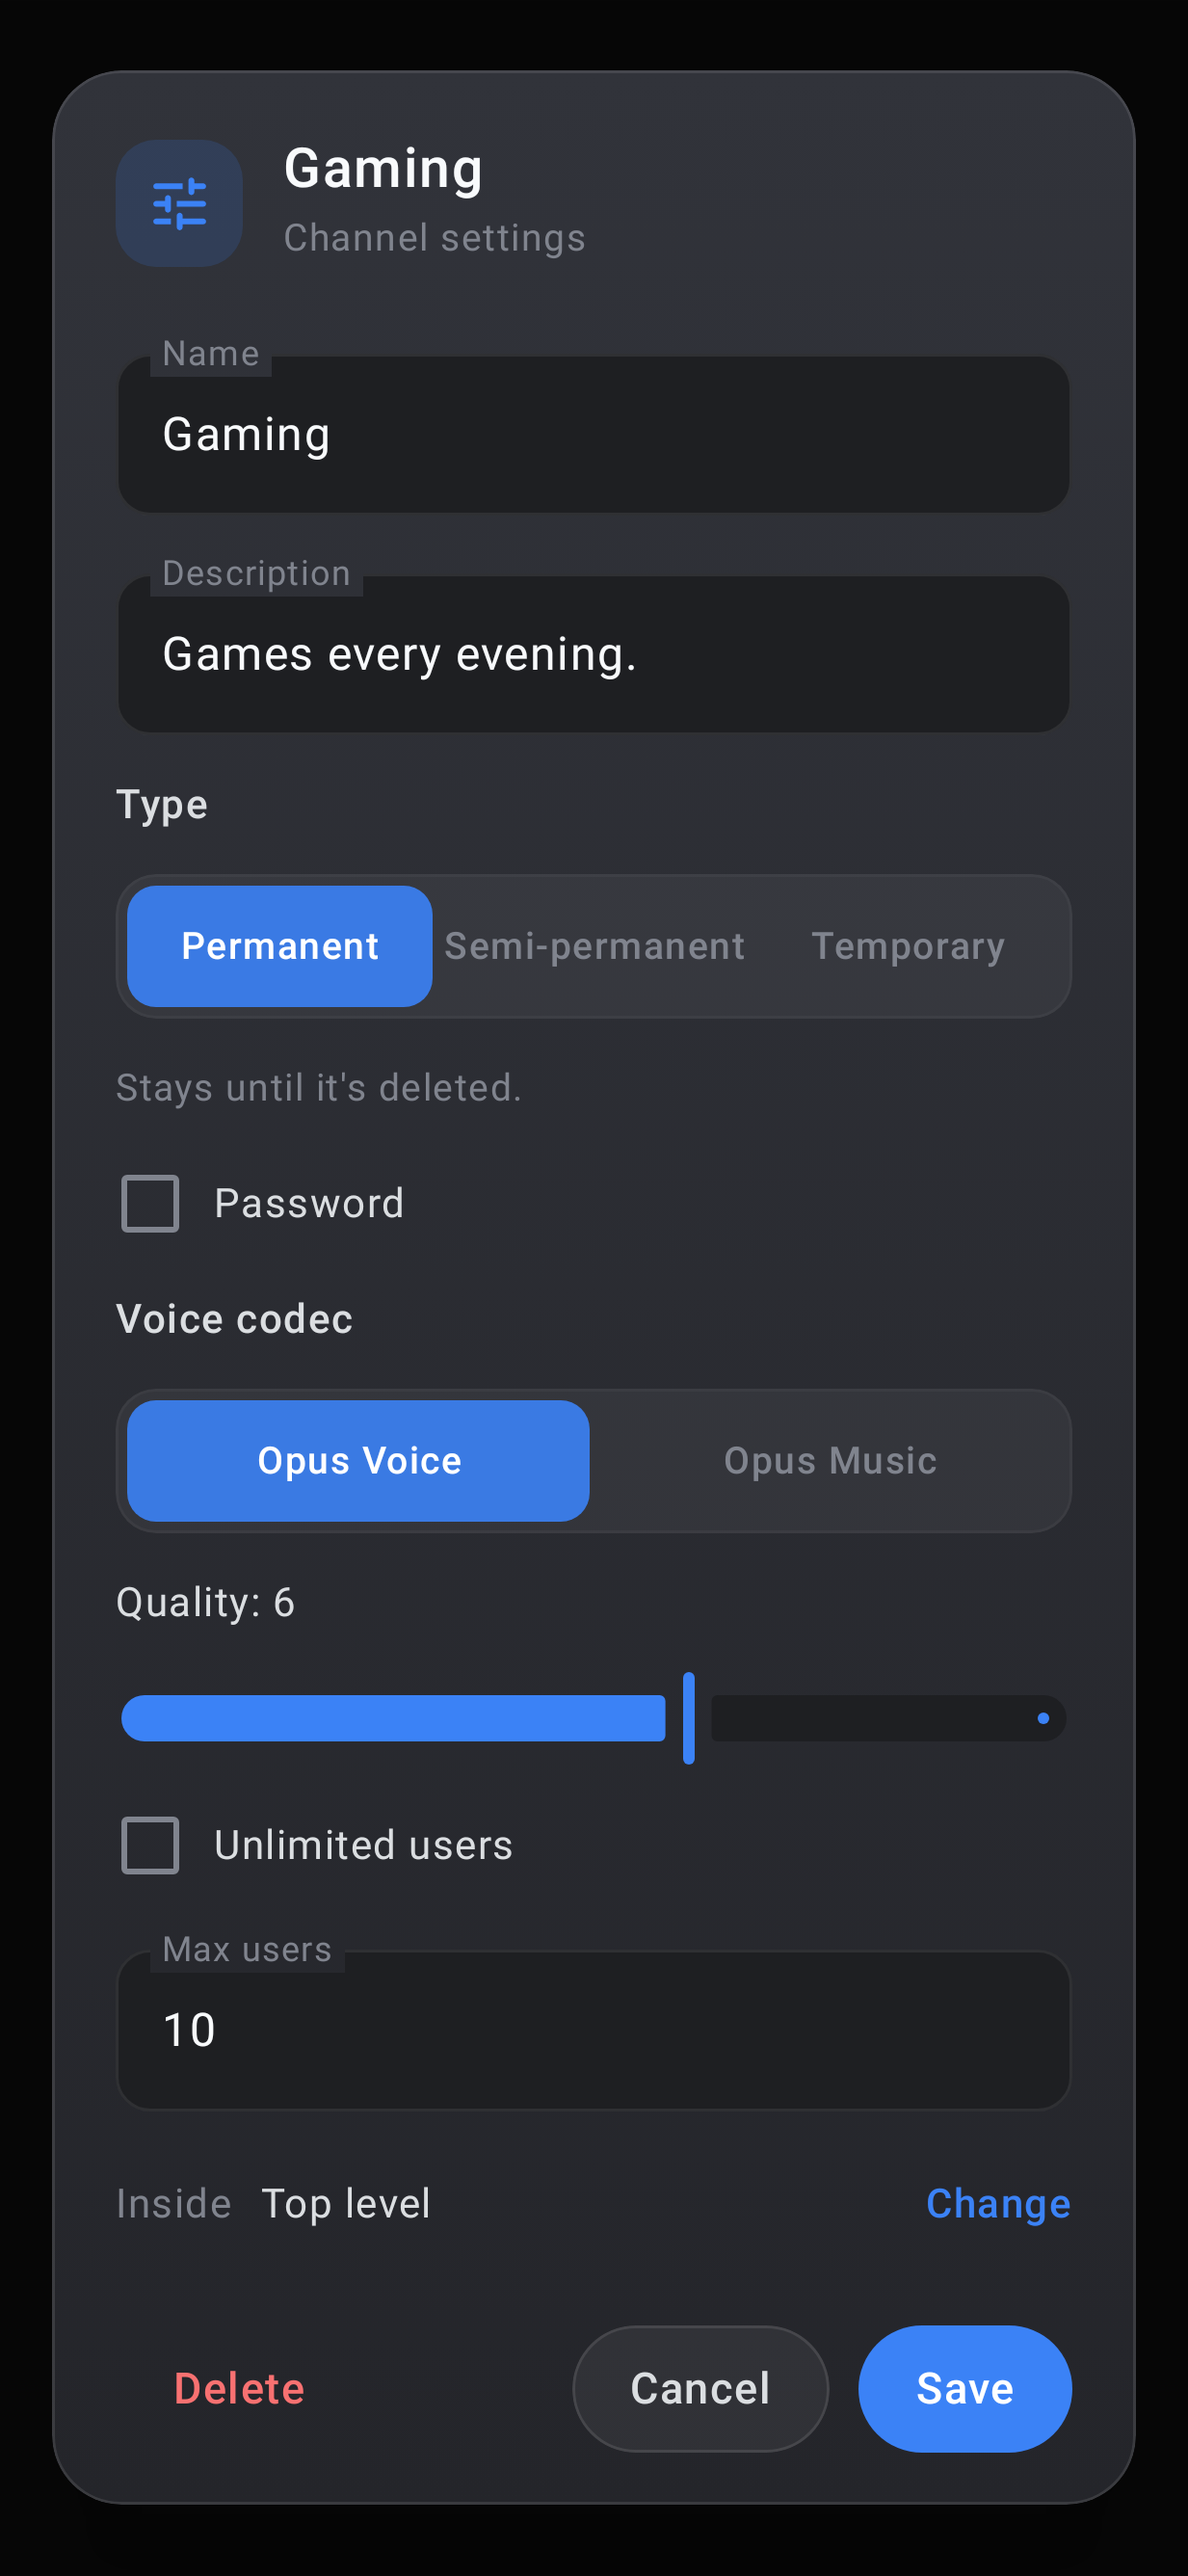
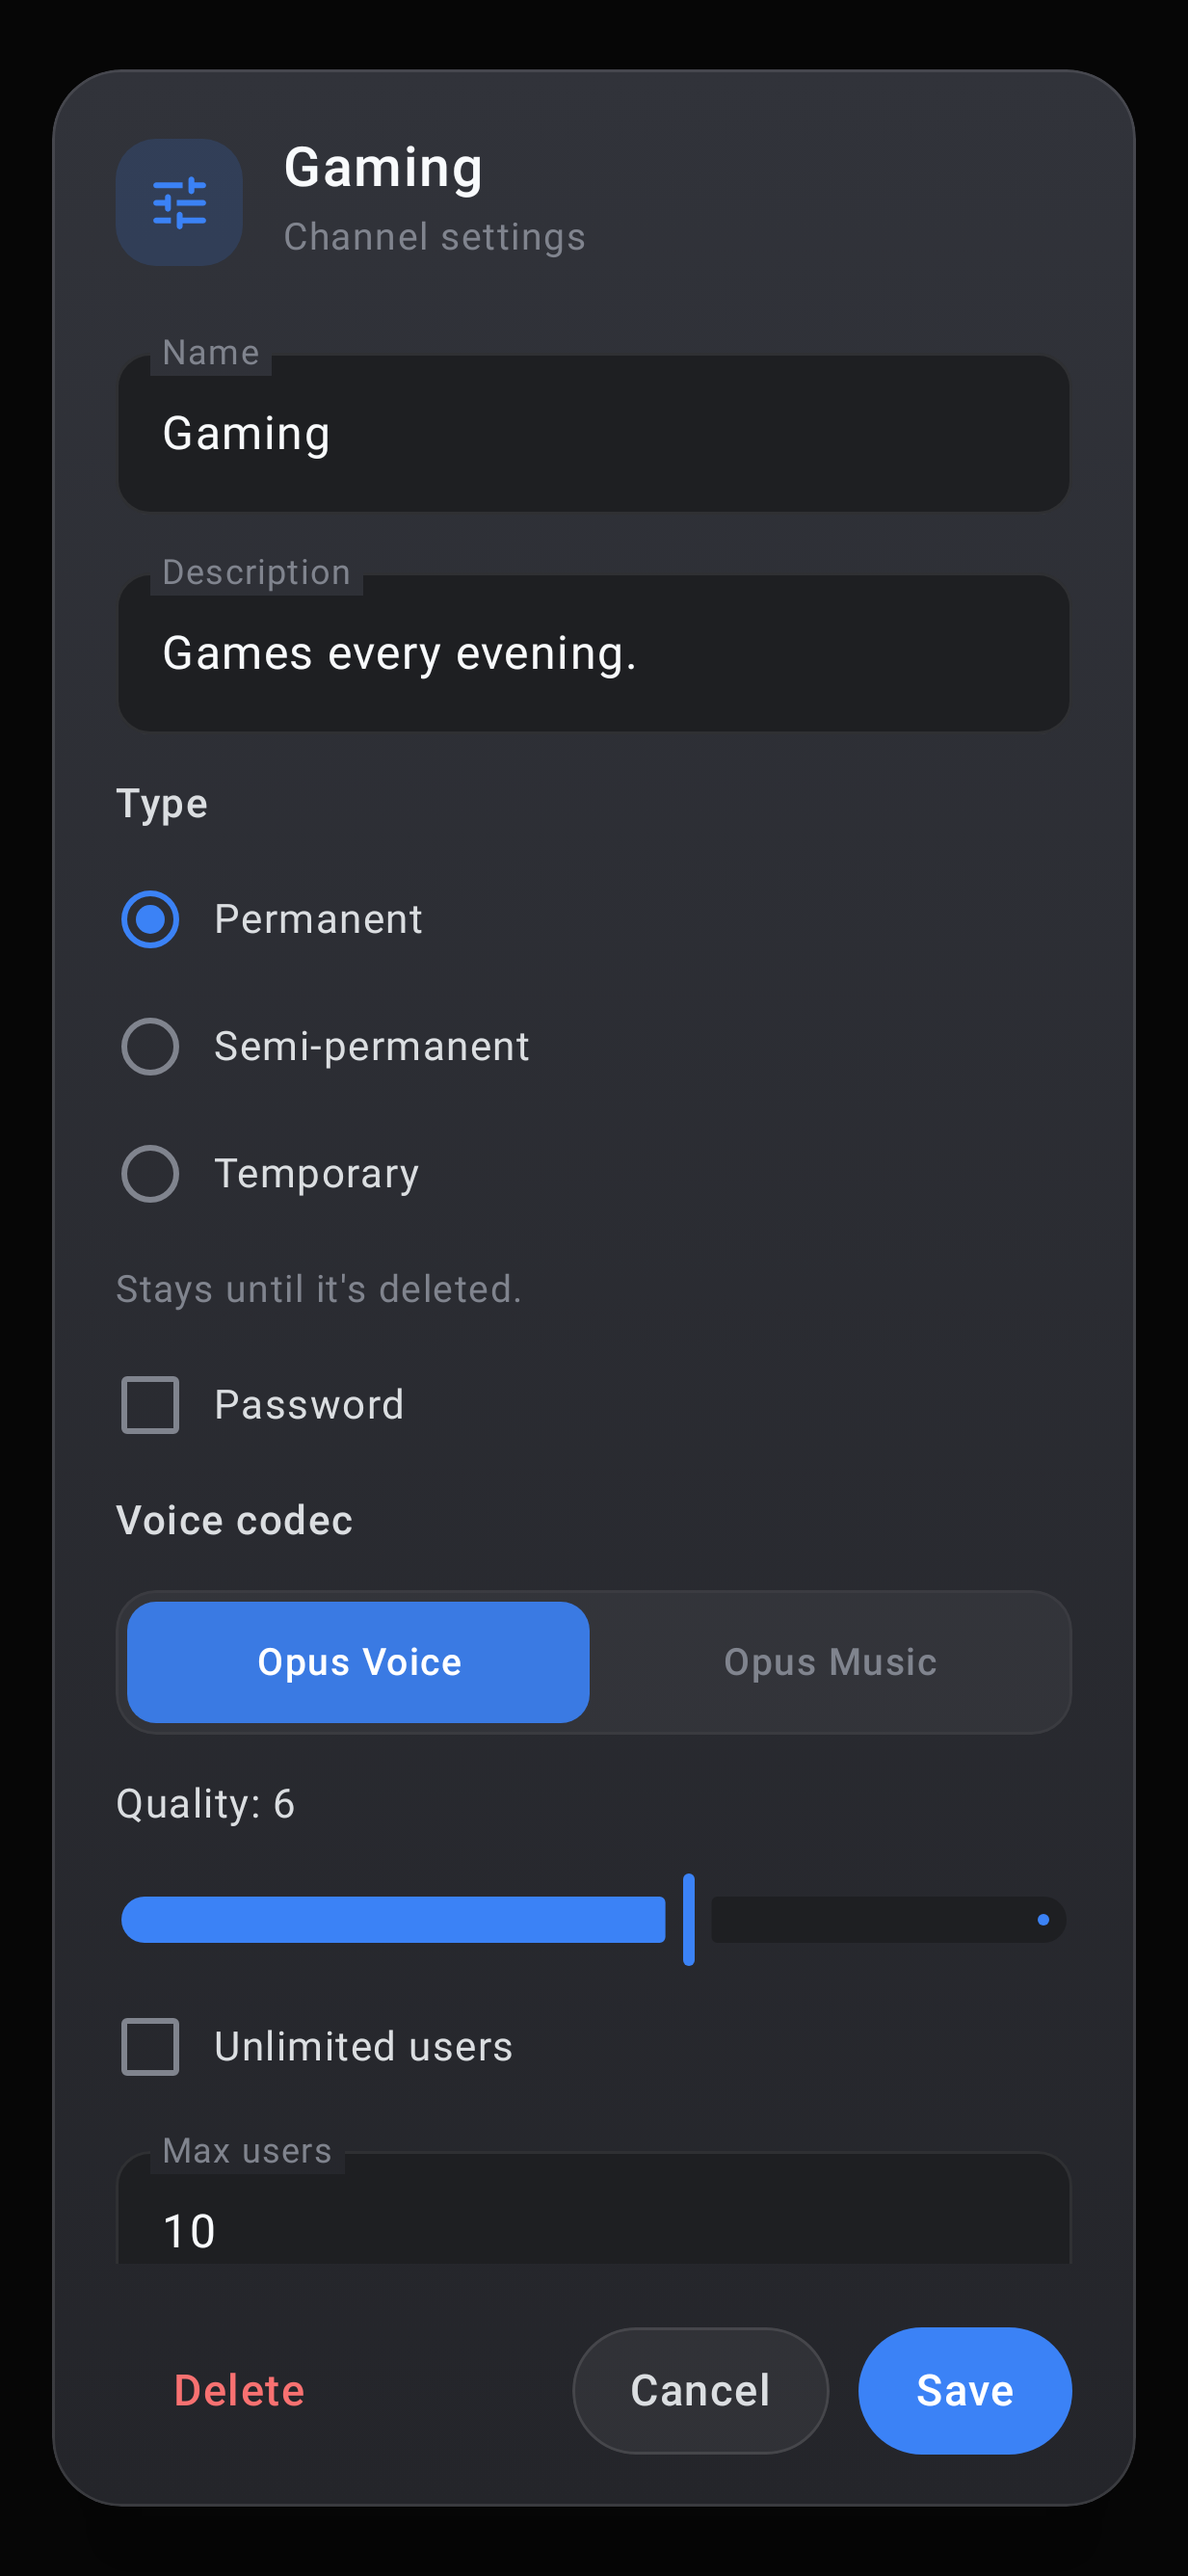
Channel window: type as radio choices, parent in its own window
"Semi-permanent" wrapped onto two lines in a three-way switch on a
phone; the types are now radio choices one under another. Tapping
Change for the parent opened the channel list below the window's
visible part, so it seemed to do nothing; it now opens a window of its
own.

diff --git a/app/src/main/kotlin/io/github/korppujauho/pocketts/ui/ChannelEditor.kt b/app/src/main/kotlin/io/github/korppujauho/pocketts/ui/ChannelEditor.kt
@@ -30,6 +30,7 @@ import androidx.compose.foundation.verticalScroll
 import androidx.compose.material.icons.Icons
 import androidx.compose.material.icons.filled.Add
 import androidx.compose.material.icons.filled.Person
+import androidx.compose.material.icons.rounded.AccountTree
 import androidx.compose.material.icons.rounded.DeleteForever
 import androidx.compose.material.icons.rounded.Tune
 import androidx.compose.material3.Icon
@@ -259,11 +260,12 @@ fun ChannelDialog(
         )
 
         Label(stringResource(R.string.channel_kind))
-        val kinds = ChannelEdits.Kind.entries
-        Segments(
-            listOf(stringResource(R.string.channel_kind_permanent), stringResource(R.string.channel_kind_semi), stringResource(R.string.channel_kind_temporary)),
-            kinds.indexOf(s.kind),
-        ) { s = s.copy(kind = kinds[it]) }
+        // One under another: three long names don't fit side by side on a phone
+        for ((kind, label) in listOf(
+            ChannelEdits.Kind.PERMANENT to R.string.channel_kind_permanent,
+            ChannelEdits.Kind.SEMI_PERMANENT to R.string.channel_kind_semi,
+            ChannelEdits.Kind.TEMPORARY to R.string.channel_kind_temporary,
+        )) Radio(stringResource(label), s.kind == kind) { s = s.copy(kind = kind) }
         Text(
             stringResource(
                 when (s.kind) {
@@ -295,11 +297,11 @@ fun ChannelDialog(
             TsField(maxText, { t -> maxText = t.filter { it.isDigit() }.take(5) }, stringResource(R.string.channel_max_users), keyboard = KeyboardType.Number)
         }
 
-        // Where it is in the tree: tap to choose another place (not inside itself)
+        // Where it is in the tree: tap to choose another place (in a window of its own; not inside itself)
         val parentName = if (s.parent == 0) stringResource(R.string.channel_top_level)
         else flattenTree(tree).firstOrNull { it.node.channel.id == s.parent }?.node?.channel?.let { it.displayName.ifBlank { it.name } } ?: "?"
         Row(
-            Modifier.fillMaxWidth().clip(RoundedCornerShape(8.dp)).clickable { choosingParent = !choosingParent }.padding(vertical = 8.dp),
+            Modifier.fillMaxWidth().clip(RoundedCornerShape(8.dp)).clickable { choosingParent = true }.padding(vertical = 8.dp),
             verticalAlignment = Alignment.CenterVertically,
         ) {
             Text(stringResource(R.string.channel_parent), color = Ts.muted, fontSize = 14.sp)
@@ -309,12 +311,18 @@ fun ChannelDialog(
         }
         if (choosingParent) {
             val inside = channel?.let { c -> ChannelEdits.subtree(flattenTree(tree).map { it.node.channel }, c.id) }.orEmpty()
-            Column(Modifier.fillMaxWidth().heightIn(max = 220.dp).clip(RoundedCornerShape(8.dp)).background(Pop.field).verticalScroll(rememberScrollState())) {
-                ParentRow(stringResource(R.string.channel_top_level), 0, s.parent == 0) { s = s.copy(parent = 0); choosingParent = false }
-                for (it in flattenTree(tree)) {
-                    val c = it.node.channel
-                    if (c.id in inside || c.spacer != null) continue
-                    ParentRow(c.displayName.ifBlank { c.name }, it.depth + 1, s.parent == c.id) { s = s.copy(parent = c.id); choosingParent = false }
+            TsDialog(
+                onDismiss = { choosingParent = false }, title = stringResource(R.string.channel_parent_title),
+                icon = Icons.Rounded.AccountTree,
+                buttons = { PillButton(stringResource(R.string.cancel)) { choosingParent = false } },
+            ) {
+                Column(Modifier.fillMaxWidth().heightIn(max = 380.dp).verticalScroll(rememberScrollState())) {
+                    ParentRow(stringResource(R.string.channel_top_level), 0, s.parent == 0) { s = s.copy(parent = 0); choosingParent = false }
+                    for (it in flattenTree(tree)) {
+                        val c = it.node.channel
+                        if (c.id in inside || c.spacer != null) continue
+                        ParentRow(c.displayName.ifBlank { c.name }, it.depth + 1, s.parent == c.id) { s = s.copy(parent = c.id); choosingParent = false }
+                    }
                 }
             }
         }
@@ -329,7 +337,8 @@ private fun ParentRow(name: String, depth: Int, selected: Boolean, onClick: () -
     Text(
         name, color = if (selected) Ts.accent else Ts.text, fontSize = 14.sp, maxLines = 1, overflow = TextOverflow.Ellipsis,
         fontWeight = if (selected) FontWeight.SemiBold else FontWeight.Normal,
-        modifier = Modifier.fillMaxWidth().clickable(onClick = onClick).padding(start = (12 + depth * 14).dp, end = 12.dp, top = 9.dp, bottom = 9.dp),
+        modifier = Modifier.fillMaxWidth().clip(RoundedCornerShape(8.dp)).clickable(onClick = onClick)
+            .padding(start = (8 + depth * 16).dp, end = 8.dp, top = 10.dp, bottom = 10.dp),
     )
 }
 

diff --git a/app/src/main/kotlin/io/github/korppujauho/pocketts/ui/SettingsDialog.kt b/app/src/main/kotlin/io/github/korppujauho/pocketts/ui/SettingsDialog.kt
@@ -209,7 +209,7 @@ internal fun Check(text: String, checked: Boolean, onChange: (Boolean) -> Unit) 
 }
 
 @Composable
-private fun Radio(text: String, selected: Boolean, onClick: () -> Unit) {
+internal fun Radio(text: String, selected: Boolean, onClick: () -> Unit) {
     Row(Modifier.fillMaxWidth().clickable(onClick = onClick).padding(vertical = 4.dp), verticalAlignment = Alignment.CenterVertically) {
         androidx.compose.runtime.CompositionLocalProvider(androidx.compose.material3.LocalMinimumInteractiveComponentSize provides 0.dp) {
             RadioButton(selected, onClick, colors = RadioButtonDefaults.colors(selectedColor = Ts.accent, unselectedColor = Ts.muted))
